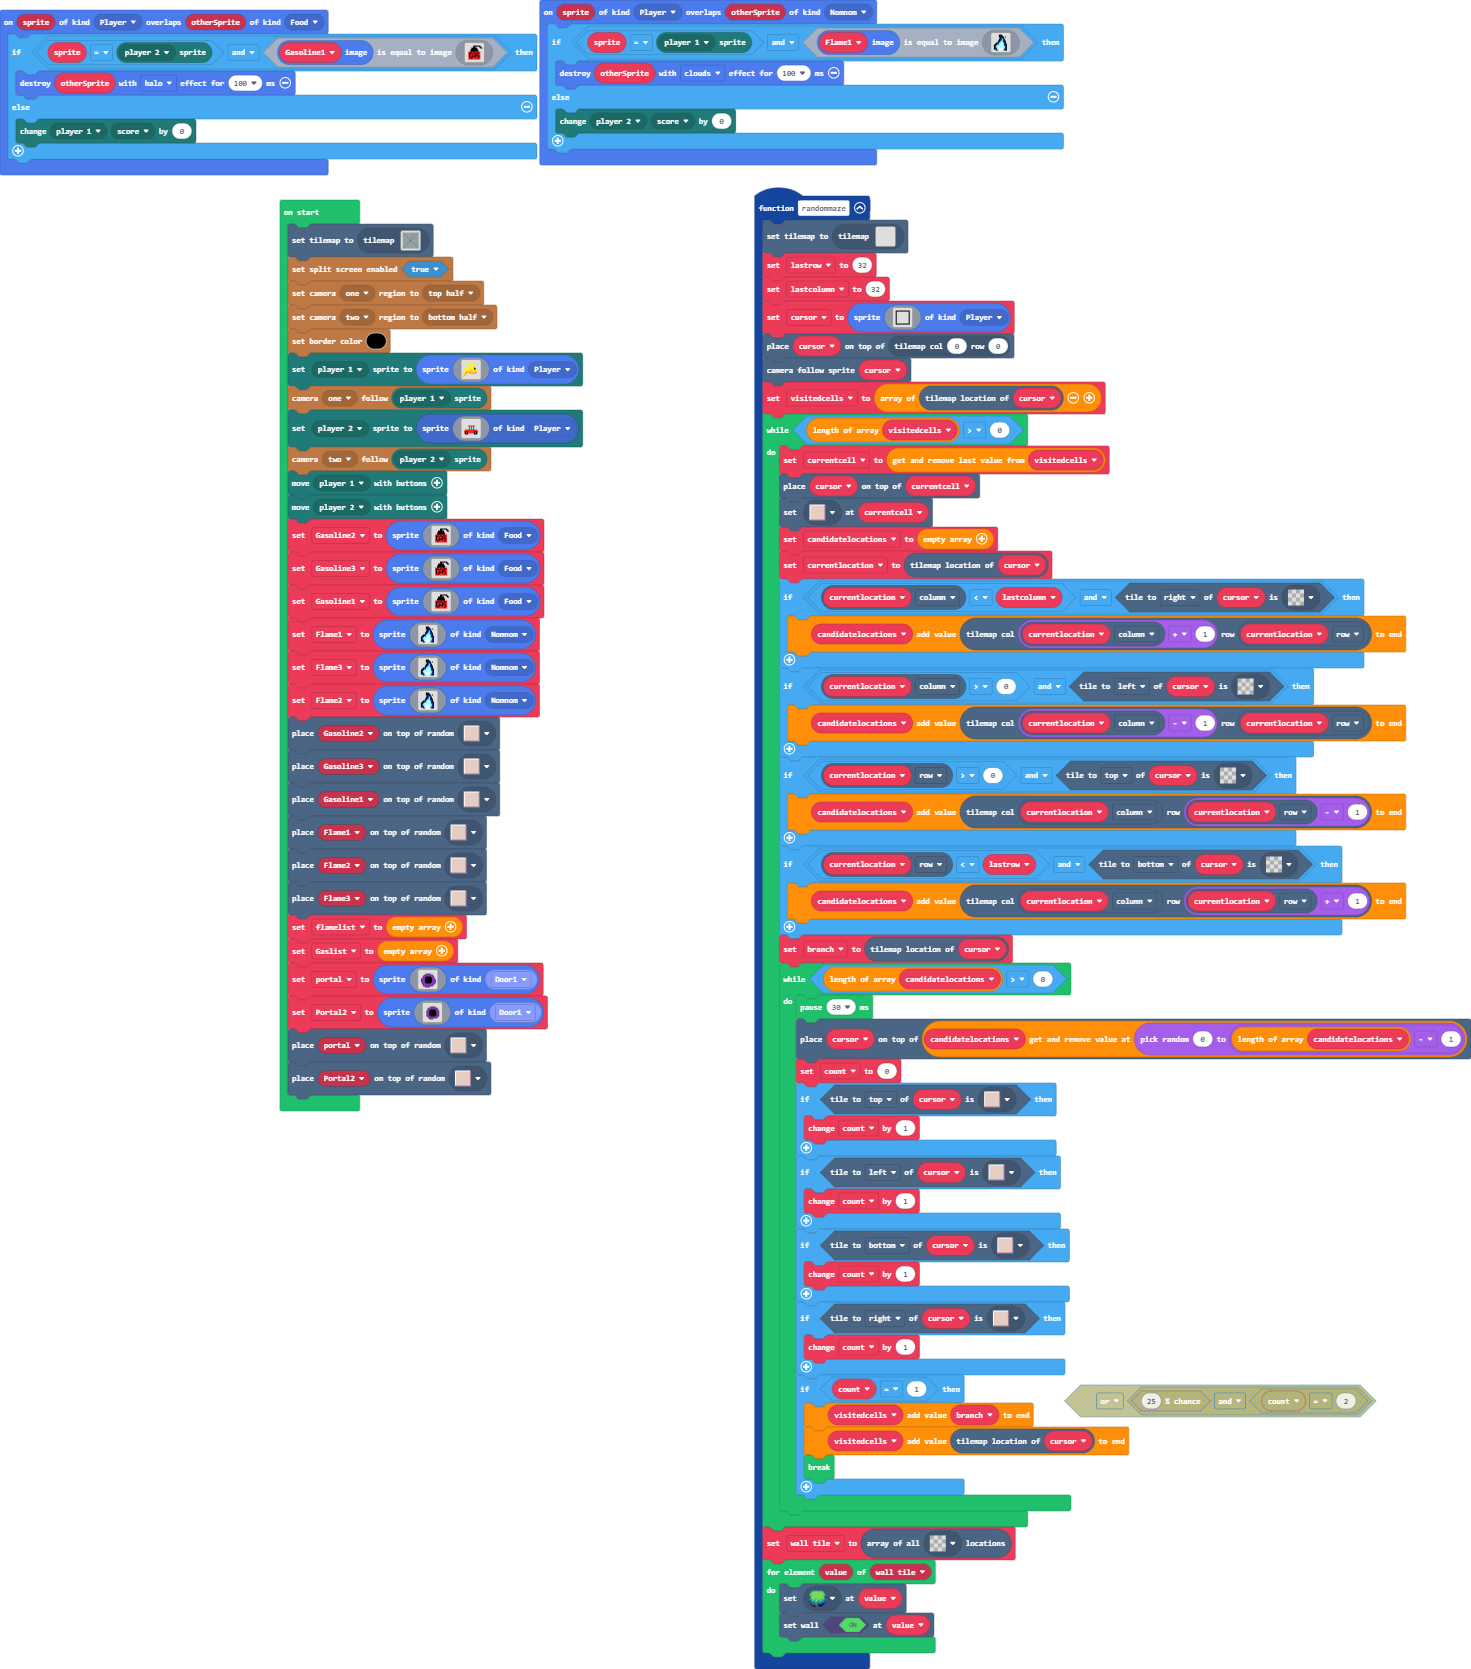
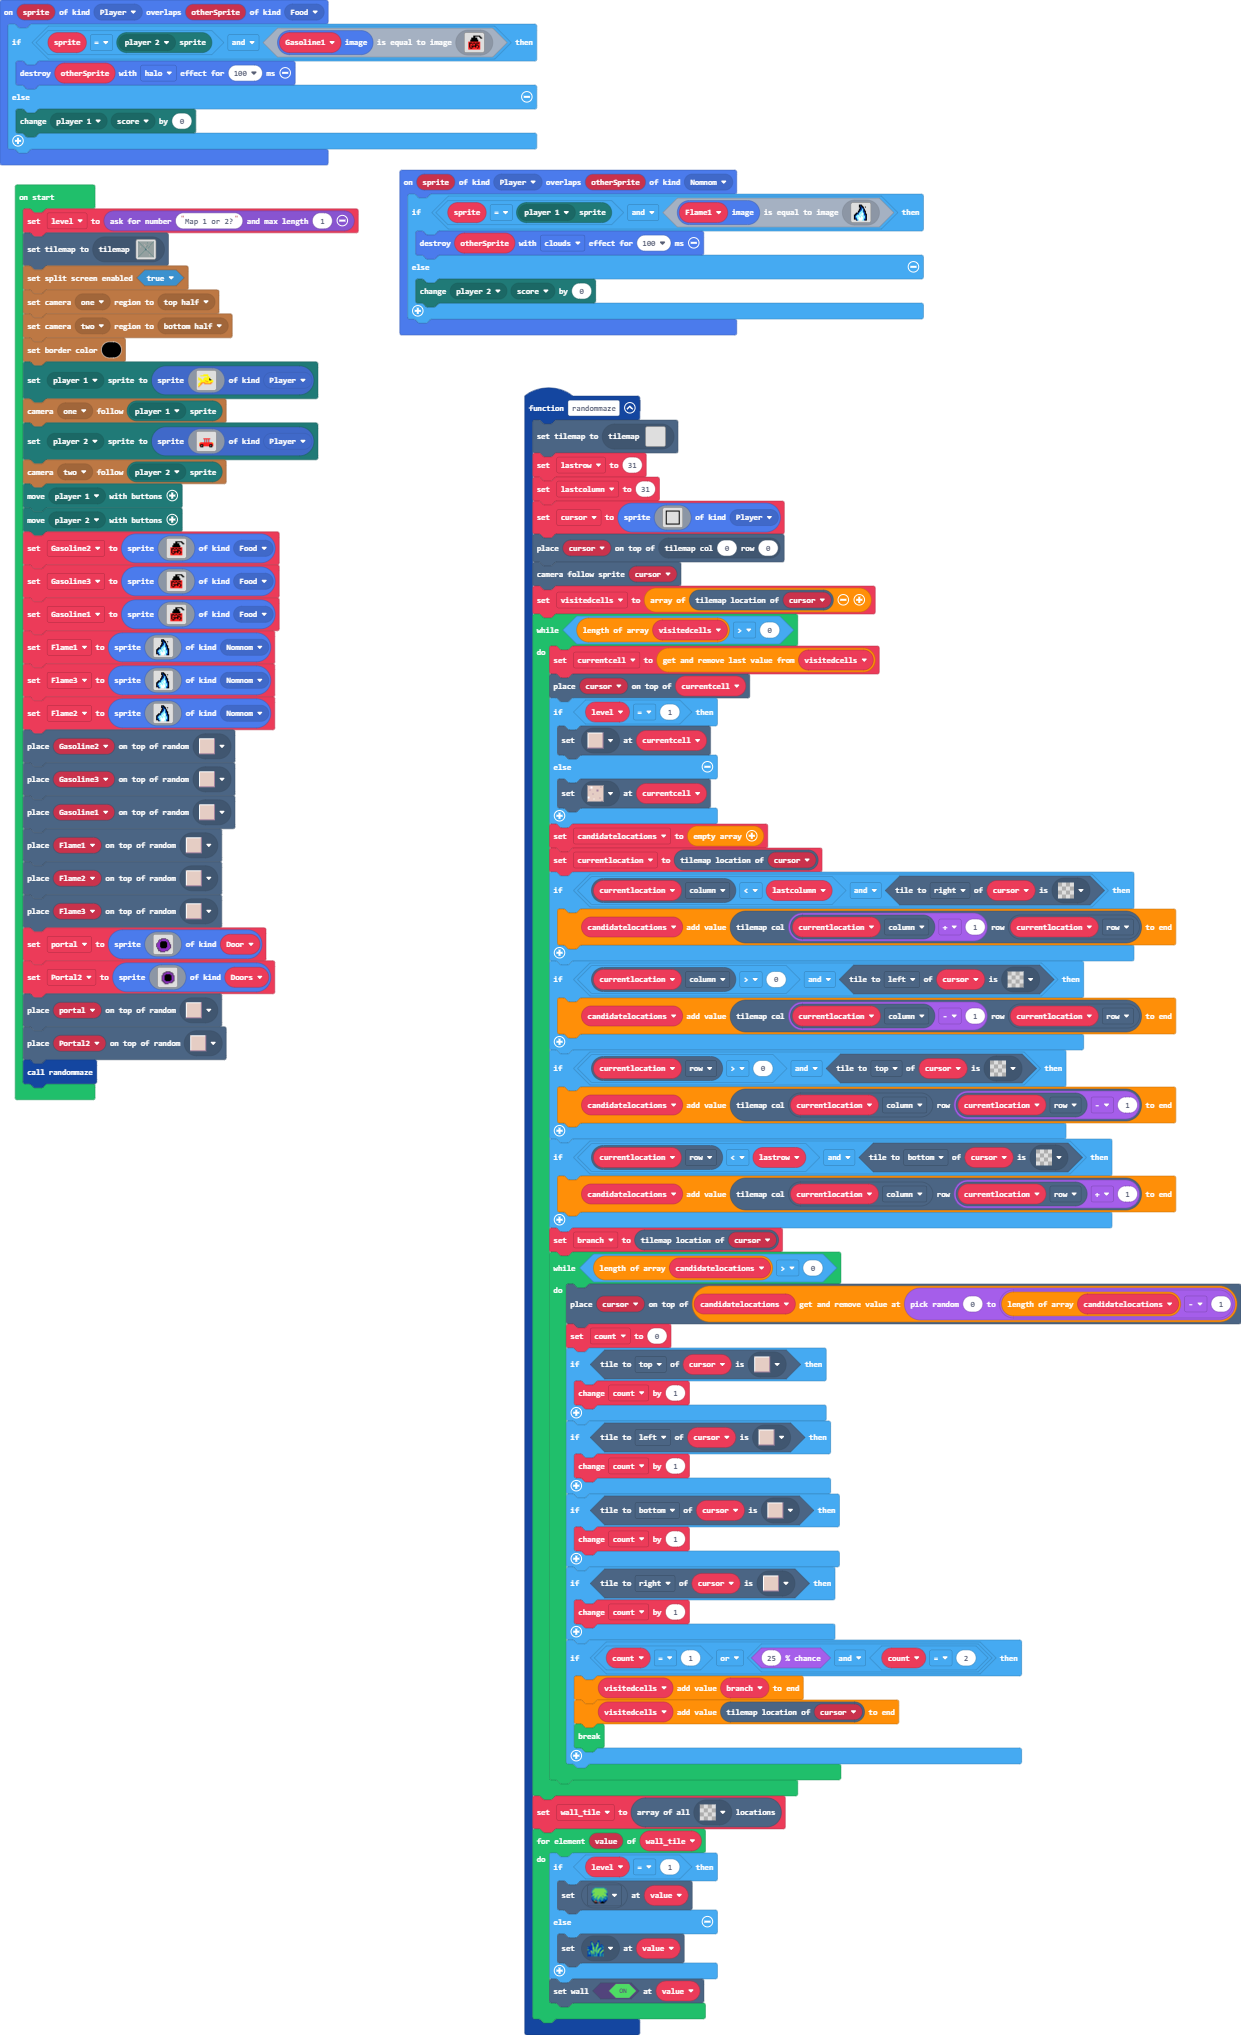
Update main.blocks, main.ts, tilemap.g.jres, tilemap.g.ts

diff --git a/tilemap.g.ts b/tilemap.g.ts
@@ -40,25 +40,6 @@ namespace myTiles {
 ................................
 ................................
 `, [myTiles.transparency16,sprites.builtin.brick,sprites.builtin.forestTiles0], TileScale.Sixteen);
-            case "level4":
-            case "level4":return tiles.createTilemap(hex`1000100000000000000000000000000000000000000000000000000000000000000000000000000000000000000000000000000000000000000000000000000000000000000000000000000000000000000000000000000000000000000000000000000000000000000000000000000000000000000000000000000000000000000000000000000000000000000000000000000000000000000000000000000000000000000000000000000000000000000000000000000000000000000000000000000000000000000000000000000000000000000000000000000000000000000000000000000000000000000000000000000000000000000000000000000000000000`, img`
-. . . . . . . . . . . . . . . . 
-. . . . . . . . . . . . . . . . 
-. . . . . . . . . . . . . . . . 
-. . . . . . . . . . . . . . . . 
-. . . . . . . . . . . . . . . . 
-. . . . . . . . . . . . . . . . 
-. . . . . . . . . . . . . . . . 
-. . . . . . . . . . . . . . . . 
-. . . . . . . . . . . . . . . . 
-. . . . . . . . . . . . . . . . 
-. . . . . . . . . . . . . . . . 
-. . . . . . . . . . . . . . . . 
-. . . . . . . . . . . . . . . . 
-. . . . . . . . . . . . . . . . 
-. . . . . . . . . . . . . . . . 
-. . . . . . . . . . . . . . . . 
-`, [myTiles.transparency16], TileScale.Sixteen);
             case "level2":
             case "level2":return tiles.createTilemap(hex`2000200000000000000000000000000000000000000000000000000000000000000000000000000000000000000000000000000000000000000000000000000000000000000000000000000000000000000000000000000000000000000000000000000000000000000000000000000000000000000000000000000000000000000000000000000000000000000000000000000000000000000000000000000000000000000000000000000000000000000000000000000000000000000000000000000000000000000000000000000000000000000000000000000000000000000000000000000000000000000000000000000000000000000000000000000000000000000000000000000000000000000000000000000000000000000000000000000000000000000000000000000000000000000000000000000000000000000000000000000000000000000000000000000000000000000000000000000000000000000000000000000000000000000000000000000000000000000000000000000000000000000000000000000000000000000000000000000000000000000000000000000000000000000000000000000000000000000000000000000000000000000000000000000000000000000000000000000000000000000000000000000000000000000000000000000000000000000000000000000000000000000000000000000000000000000000000000000000000000000000000000000000000000000000000000000000000000000000000000000000000000000000000000000000000000000000000000000000000000000000000000000000000000000000000000000000000000000000000000000000000000000000000000000000000000000000000000000000000000000000000000000000000000000000000000000000000000000000000000000000000000000000000000000000000000000000000000000000000000000000000000000000000000000000000000000000000000000000000000000000000000000000000000000000000000000000000000000000000000000000000000000000000000000000000000000000000000000000000000000000000000000000000000000000000000000000000000000000000000000000000000000000000000000000000000000000000000000000000000000000000000000000000000000000000000000000000000000000000000000000000000000000000000000000000000000000000000000000000000000000000000000000000000000000000000000000000000000000000000000000000000000000000000000000000000000000000000000000000000000000000000000000000000000000000000000000000000000000000000000000000000000000000000`, img`
 ................................
@@ -205,6 +186,25 @@ namespace myTiles {
 . . . . . . . . . . . . . . . . 
 . . . . . . . . . . . . . . . . 
 `, [myTiles.transparency16], TileScale.Sixteen);
+            case "level4":
+            case "level4":return tiles.createTilemap(hex`1000100001010101010101010101010101010101010202020202020202020202020202010102000000000000000000000000020101020000000000000000000000000201010200000000000000000000000002010102000000000000000000000000020101020000000000000000000000000201010200000000000000000000000002010102000000000000000000000000020101020000000000000000000000000201010202000000000000000000000002010102020000000000000000000000020101020000000000000000000000000201010200000000000000000000000002010102020202020202020202020202020101010101010101010101010101010101`, img`
+. . . . . . . . . . . . . . . . 
+. . . . . . . . . . . . . . . . 
+. . . . . . . . . . . . . . . . 
+. . . . . . . . . . . . . . . . 
+. . . . . . . . . . . . . . . . 
+. . . . . . . . . . . . . . . . 
+. . . . . . . . . . . . . . . . 
+. . . . . . . . . . . . . . . . 
+. . . . . . . . . . . . . . . . 
+. . . . . . . . . . . . . . . . 
+. . . . . . . . . . . . . . . . 
+. . . . . . . . . . . . . . . . 
+. . . . . . . . . . . . . . . . 
+. . . . . . . . . . . . . . . . 
+. . . . . . . . . . . . . . . . 
+. . . . . . . . . . . . . . . . 
+`, [myTiles.transparency16,sprites.castle.tilePath5,sprites.swamp.swampTile1], TileScale.Sixteen);
         }
         return null;
     })

diff --git a/main.ts b/main.ts
@@ -3,8 +3,8 @@ namespace SpriteKind {
 }
 function randommaze () {
     tiles.setCurrentTilemap(tilemap`level2`)
-    lastrow = 32
-    lastcolumn = 32
+    lastrow = 31
+    lastcolumn = 31
     cursor = sprites.create(img`
         . . . . . . . . . . . . . . . . 
         . f f f f f f f f f f f f f f . 
@@ -29,7 +29,11 @@ function randommaze () {
     while (visitedcells.length > 0) {
         currentcell = visitedcells.pop()
         tiles.placeOnTile(cursor, currentcell)
-        tiles.setTileAt(currentcell, sprites.dungeon.floorLight2)
+        if (level == 1) {
+            tiles.setTileAt(currentcell, sprites.dungeon.floorLight2)
+        } else {
+            tiles.setTileAt(currentcell, sprites.castle.tilePath5)
+        }
         candidatelocations = []
         currentlocation = cursor.tilemapLocation()
         if (currentlocation.column < lastcolumn && cursor.tileKindAt(TileDirection.Right, assets.tile`transparency16`)) {
@@ -46,7 +50,6 @@ function randommaze () {
         }
         branch = cursor.tilemapLocation()
         while (candidatelocations.length > 0) {
-            pause(30)
             tiles.placeOnTile(cursor, candidatelocations.removeAt(randint(0, candidatelocations.length - 1)))
             count = 0
             if (cursor.tileKindAt(TileDirection.Top, sprites.dungeon.floorLight2)) {
@@ -61,7 +64,7 @@ function randommaze () {
             if (cursor.tileKindAt(TileDirection.Right, sprites.dungeon.floorLight2)) {
                 count += 1
             }
-            if (count == 1) {
+            if (count == 1 || Math.percentChance(25) && count == 2) {
                 visitedcells.push(branch)
                 visitedcells.push(cursor.tilemapLocation())
                 break;
@@ -70,7 +73,11 @@ function randommaze () {
     }
     wall_tile = tiles.getTilesByType(assets.tile`transparency16`)
     for (let value of wall_tile) {
-        tiles.setTileAt(value, sprites.builtin.forestTiles0)
+        if (level == 1) {
+            tiles.setTileAt(value, sprites.builtin.forestTiles0)
+        } else {
+            tiles.setTileAt(value, sprites.swamp.swampTile1)
+        }
         tiles.setWallAt(value, true)
     }
 }
@@ -115,8 +122,12 @@ let visitedcells: tiles.Location[] = []
 let cursor: Sprite = null
 let lastcolumn = 0
 let lastrow = 0
+let Doors = 0
+let Door = 0
 let Flame1: Sprite = null
 let Gasoline1: Sprite = null
+let level = 0
+level = game.askForNumber("Map 1 or 2?", 1)
 tiles.setCurrentTilemap(tilemap`level3`)
 splitScreen.setSplitScreenEnabled(true)
 splitScreen.setCameraRegion(splitScreen.Camera.Camera1, splitScreen.CameraRegion.HorizontalTopHalf)
@@ -225,8 +236,6 @@ tiles.placeOnRandomTile(Gasoline1, sprites.dungeon.floorLight2)
 tiles.placeOnRandomTile(Flame1, sprites.dungeon.floorLight2)
 tiles.placeOnRandomTile(Flame2, sprites.dungeon.floorLight2)
 tiles.placeOnRandomTile(Flame3, sprites.dungeon.floorLight2)
-let flamelist: number[] = []
-let Gaslist: number[] = []
 let portal = sprites.create(img`
     . . . . . . . . . . . . . . . . 
     . . . . . . . . . . . . . . . . 
@@ -244,7 +253,7 @@ let portal = sprites.create(img`
     . . . c a a a a a a a a a c . . 
     . . . c c c a a a a c c c . . . 
     . . . . . c c c c c . . . . . . 
-    `, MapConnectionKind.Door1)
+    `, Door)
 let Portal2 = sprites.create(img`
     . . . . . . . . . . . . . . . . 
     . . . . . . . . . . . . . . . . 
@@ -262,6 +271,7 @@ let Portal2 = sprites.create(img`
     . . . . c c a a a c c c c . . . 
     . . . . . c c c c . . . . . . . 
     . . . . . . . . . . . . . . . . 
-    `, MapConnectionKind.Door1)
+    `, Doors)
 tiles.placeOnRandomTile(portal, sprites.dungeon.floorLight2)
 tiles.placeOnRandomTile(Portal2, sprites.dungeon.floorLight2)
+randommaze()
